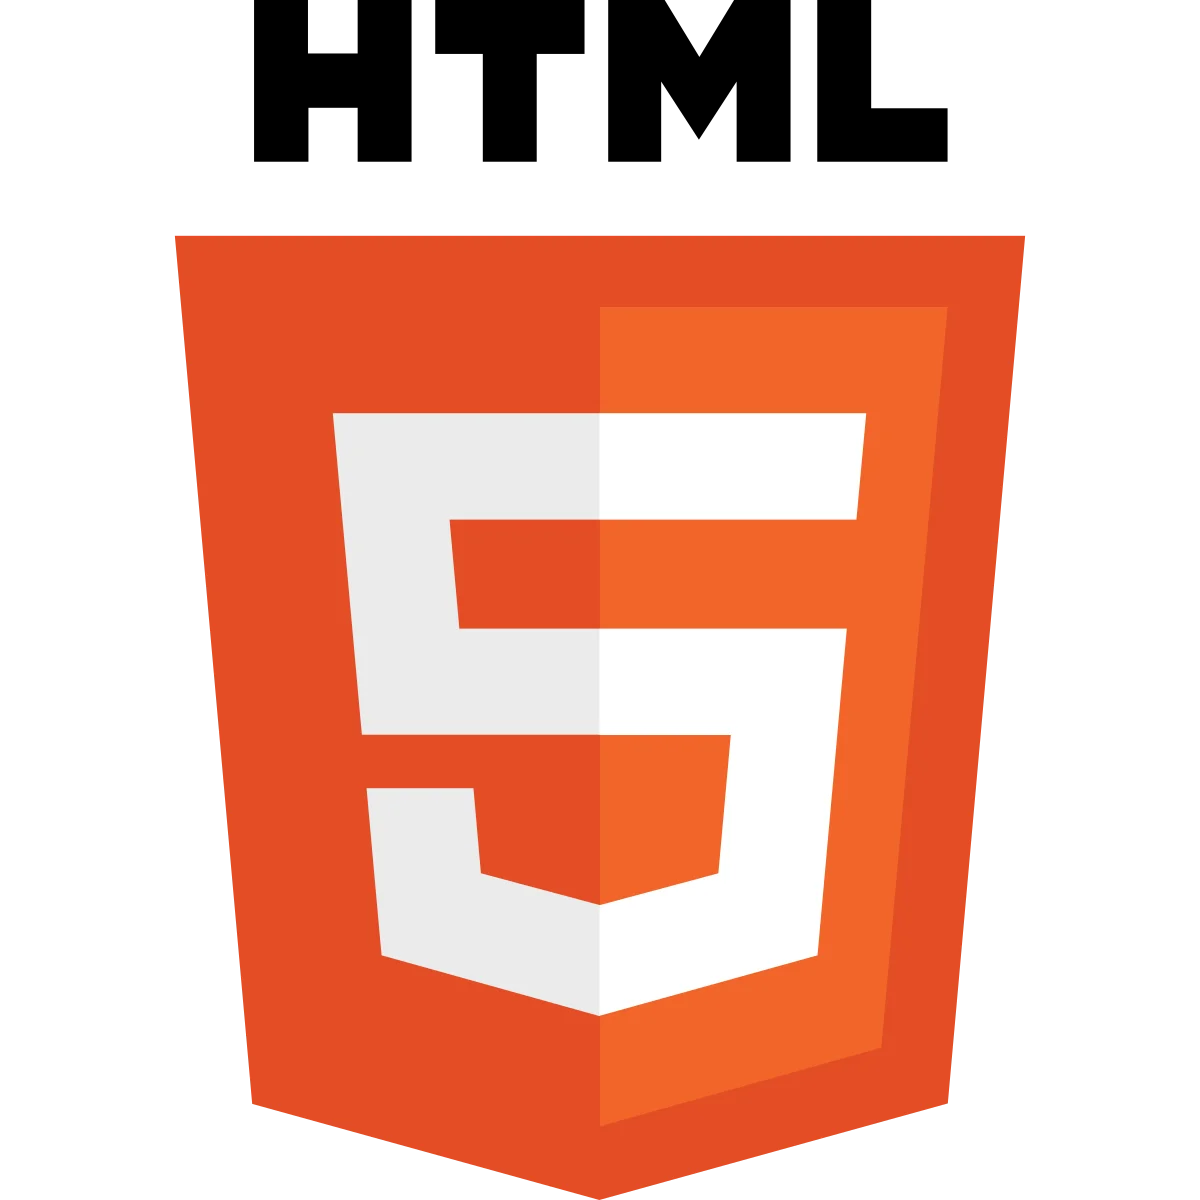
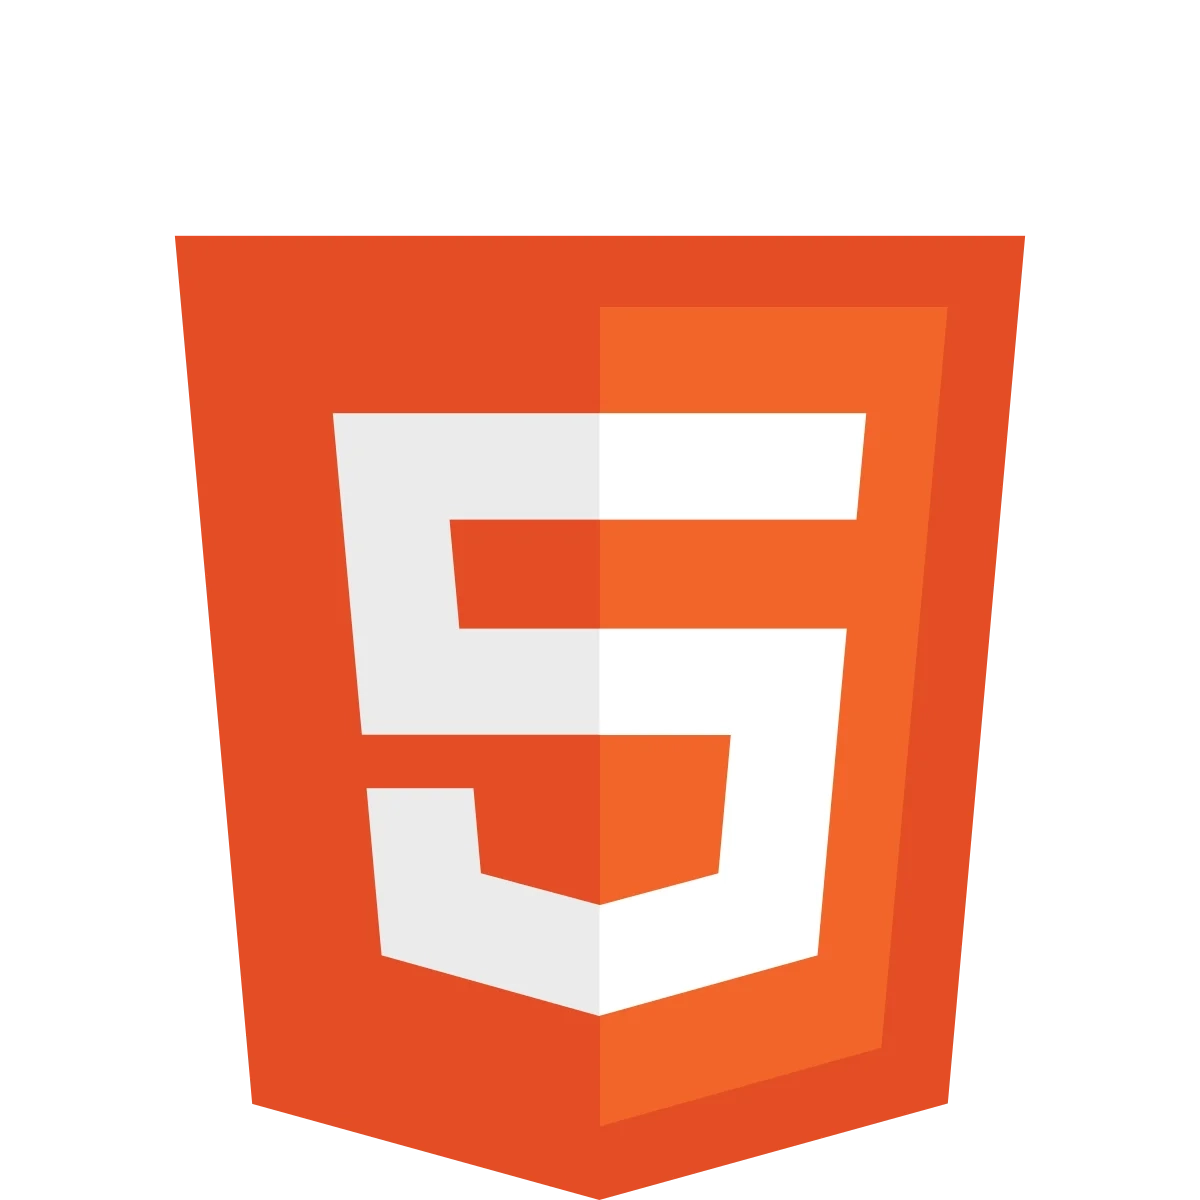
Reworked CSS style for Project item description. Added Javascript skill and edited other skills level percentage. Fix for Project onClick to return project object.
Project item description changed background added blur and made it cover whole item.
Small changes to Skill.json with added skill Javascript and Skill level percentage edit. Added image for Javascript and edited HTML image.
Project onClick was returning event of onClick and index of the Project. Now it returns Project object.

Changed region(s): [[0.185, 0.0, 0.8017, 0.1542]]

diff --git a/src/assets/components/Projects/project.scss b/src/assets/components/Projects/project.scss
@@ -11,10 +11,12 @@
 
   &:hover {
     .content {
-      max-height: 70%;
+      max-height: 100%;
+      backdrop-filter: blur(1px);
+      background: linear-gradient(90deg, rgba(0, 0, 0, 0.7) 0, rgba(0, 0, 0, 0.7) 70%);
 
       &::before {
-        box-shadow: inset 48px 48px #014e7d;
+        box-shadow: none;
       }
 
       &-description {
@@ -51,7 +53,7 @@
     left: 0;
     bottom: 0;
     width: 100%;
-    background: linear-gradient(90deg, #1b83c3 0, #014e7d 70%);
+    background: linear-gradient(90deg, rgba(0, 0, 0, 0.7) 0, rgba(0, 0, 0, 0.7) 70%);
     border-top-left-radius: 20px;
     max-height: 50px;
     height: 100%;
@@ -59,19 +61,6 @@
     display: flex;
     flex-direction: column;
     z-index: 2;
-
-    &::before {
-      content: '';
-      position: absolute;
-      top: -48px;
-      right: -43px;
-      width: 100px;
-      height: 100px;
-      transform: rotate(-175deg);
-      border-radius: 50%;
-      box-shadow: inset 48px 48px #014e7d;
-      z-index: -1;
-    }
 
     &-title {
       width: 100%;

diff --git a/src/components/Projects/project.jsx b/src/components/Projects/project.jsx
@@ -3,13 +3,13 @@ import PropTypes from 'prop-types';
 import '../../assets/components/Projects/project.scss';
 
 const Project = ({ project, index, projectClick }) => {
-  const handleProjectClick = (e, index) => {
-    console.log(index);
-    projectClick(e, index);
+  const handleProjectClick = (e) => {
+    e.preventDefault();
+    projectClick(project);
   };
 
   return (
-    <div className='projects-content-holder-item' key={index} onClick={(e) => handleProjectClick(e, index)}>
+    <div className='projects-content-holder-item' key={index} onClick={(e) => handleProjectClick(e)}>
       <img src={project.projectImages[0]} alt={project.projectDescription} />
       {/* <a href={project.projectLink} target="_blank" rel="noreferrer"/> */}
       <div className="content">

diff --git a/src/components/Skills/ProjectsSection.jsx b/src/components/Skills/ProjectsSection.jsx
@@ -46,6 +46,11 @@ const ProjectsSection = ({selectedSkill, projects}) => {
 		setSkillSelectedProjects(foundProjectsMatch);
 	};
 
+  // Make a way to redirect to the project in Project page into project projectViewer
+  const handleProjectClick = (project) => {
+    console.log("Not Implemented! URL:", project.projectLink);
+  }
+
   useEffect(() => {
 		if (selectedSkill && projects.length > 0) {
 			getProjectsFromSkill(selectedSkill);
@@ -93,6 +98,7 @@ const ProjectsSection = ({selectedSkill, projects}) => {
                       key={index}
                       project={project.node}
                       index={index}
+                      projectClick={handleProjectClick}
                     />
                   </div>
                 ))

diff --git a/src/components/Projects/projectsList.jsx b/src/components/Projects/projectsList.jsx
@@ -7,10 +7,8 @@ import ProjectViewer from './projectViewer';
 const ProjectsList = ({ projectsContainerName, ProjectsData, isMobile }) => {
   const [expandedProject, setExpandedProject] = useState(null);
 
-  const handleProjectClick = (e, index) => {
-    e.preventDefault();
-    console.log('Hit');
-    setExpandedProject(ProjectsData[index]);
+  const handleProjectClick = (project) => {
+    setExpandedProject(project);
   };
 
   const closeProjectViewer = () => {
